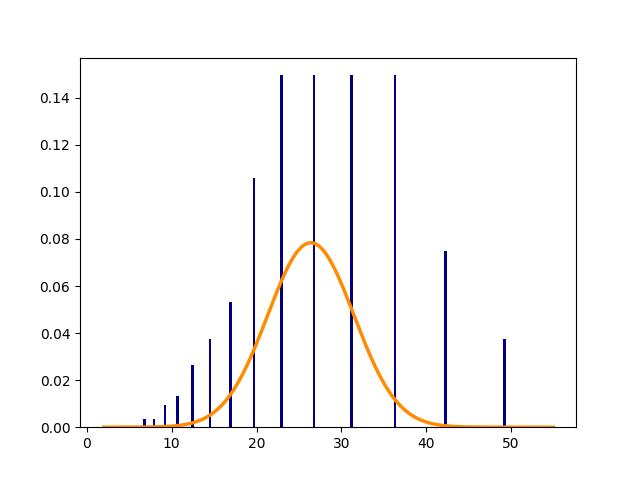
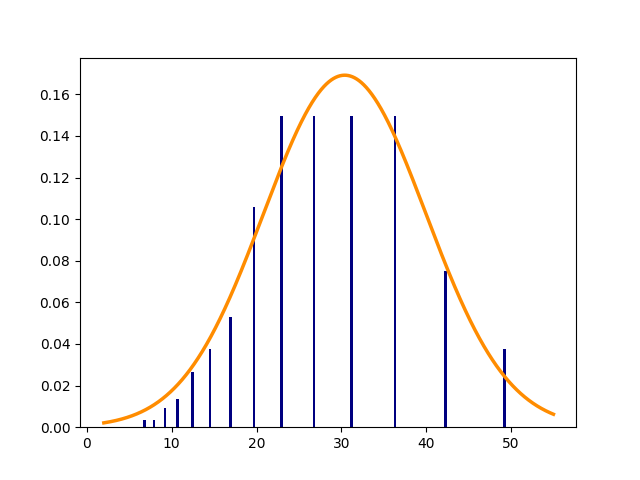
ORCA finished

diff --git a/sources/ORCA/plot.py b/sources/ORCA/plot.py
@@ -1,6 +1,7 @@
 import matplotlib.pyplot as plt
 import numpy as np
 from matplotlib.colors import LogNorm
+from matplotlib.ticker import LogFormatterMathtext
 from scipy.optimize import curve_fit
 
 import digitalizer as dgt
@@ -26,10 +27,13 @@ def plot_mig_hist(binnum):
     data_entries = D_tracks[binnum]
     # data_entries = D_cascades[binnum]
 
+    if binnum == 11: # only manual hard code part
+        data_entries[14] = 0.1
+
     print(data_entries)
 
     bins_centers = np.array([0.5 * (x_bins[i] + x_bins[i+1]) for i in range(len(x_bins)-1)])
-    popt, pcov = curve_fit(gaussian, xdata=bins_centers, ydata=data_entries, p0=[binnum, 20])
+    popt, pcov = curve_fit(gaussian, xdata=bins_centers, ydata=data_entries, p0=[binnum, 10, 1])
 
     # # Generate enough x values to make the curves look smooth.
     xspace = np.linspace(2, 55, 100000)
@@ -79,59 +83,32 @@ def plot_zenith_errors():
 
 # plot_zenith_errors()
 
-# This function has some problems: heatmap definition is understood wrong I believe
-# def plot_energy_reco(gaus, bins):
-#     def find_reco_energy_prob(gaus, bins, true_energy, reco_energy):
-#         # set bounds on IC energy
-#         if true_energy > 53 or true_energy < 1.85:
-#             return -1
-#         # find which E_true_ORCA bin this E_true belongs to
-#         for i in range(len(bins) - 1):
-#             if true_energy <= bins[i + 1]:
-#                 bin_num = i
-#                 print("in find reco, i is ", i)
-#                 break
 
-#         # now generate a random reco number from t
-#         [sigma, mu] = gaus[bin_num]
-#         print("and now sigma and mu are ", sigma, mu)
-#         E_reco = util.gaussian(reco_energy, mu, sigma)
-#         print("and the reco is ", E_reco)
-
-#         # return this fake ORCA MC energy
-#         return E_reco
-#     x = np.logspace(np.log10(2), np.log10(50), 22)
-#     y = np.logspace(np.log10(2), np.log10(50), 22)
-#     print("x and y are ", x, y)
-#     mesh = np.zeros((22, 22), float)
-#     for i in range(22):
-#         for j in range(22):
-#             true_energy = x[i]
-#             print("currently i and j, and x and y are ", i, j, x[i], y[j])
-#             res = find_reco_energy_prob(gaus, bins, x[i], y[j])
-#             mesh[i][j] = res
-
-#     fig, ax = plt.subplots()
-#     ax.imshow(mesh)
-#     # plt.xscale('log')
-#     # plt.yscale('log')
-#     plt.xlim(0.1, 50)
-#     plt.ylim(0.1, 50)
+# def plot_energy_reco():
+#     # plt.scatter(anl.res_true, anl.res_reco)
+#     heatmap, xedges, yedges = np.histogram2d(anl.res_true, anl.res_reco, bins=(x_bins, x_bins))
+#     extent = [xedges[0], xedges[-1], yedges[0], yedges[-1]]
+#     plt.xlim(2, 53)
+#     plt.ylim(2, 53)
+#     plt.clf()
+#     plt.imshow(heatmap.T, extent=extent, origin='lower', norm = LogNorm())
+#     # plt.xscale("log")
+#     # plt.yscale("log")
+#     plt.savefig("ICMC_with_ORCA_Reco")
 #     plt.show()
 
-# plot_energy_reco(anl.tracks.gaussians, x_bins)
-
 def plot_energy_reco():
-    # plt.scatter(anl.res_true, anl.res_reco)
-    heatmap, xedges, yedges = np.histogram2d(anl.res_true, anl.res_reco, bins=(x_bins, x_bins))
-    extent = [xedges[0], xedges[-1], yedges[0], yedges[-1]]
+    x = np.logspace(np.log10(1.85), np.log10(53), 23)
+    y = np.logspace(np.log10(1.85), np.log10(53), 23)
+    X, Y = np.meshgrid(x, y)
+    Z, xedges, yedges = np.histogram2d(anl.res_true, anl.res_reco, bins=(x, y))
+    im = plt.pcolor(X, Y, Z.T, cmap = "gray_r", norm = LogNorm())
     plt.xlim(2, 53)
     plt.ylim(2, 53)
-    plt.clf()
-    plt.imshow(heatmap.T, extent=extent, origin='lower', norm = LogNorm())
-    # plt.xscale("log")
-    # plt.yscale("log")
+    plt.colorbar(im, orientation = "vertical", format = LogFormatterMathtext())
+    plt.xscale("log")
+    plt.yscale("log")
+    # plt.show()
     plt.savefig("ICMC_with_ORCA_Reco")
-    plt.show()
 
 plot_energy_reco()

diff --git a/sources/ORCA/util.py b/sources/ORCA/util.py
@@ -2,13 +2,13 @@ import numpy as np
 import matplotlib.pyplot as plt
 from scipy.optimize import curve_fit
 
-def gaussian(x, mu, sigma):
-    return (1 / (sigma * np.sqrt(2 * np.pi)) * np.exp(-1.0 * (x - mu)**2 / (2 * sigma**2)))
+def gaussian(x, mu, sigma, A):
+    return (A / (sigma * np.sqrt(2 * np.pi)) * np.exp(-1.0 * (x - mu)**2 / (2 * sigma**2)))
 
 def gaus_fit(data_entries, bins, current_binnum):
 	bins_centers = np.array([0.5 * (bins[i] + bins[i+1]) for i in range(len(bins)-1)])
-	popt, pcov = curve_fit(gaussian, xdata=bins_centers, ydata=data_entries, p0=[current_binnum, 5])
-	return popt[0], popt[1]
+	popt, pcov = curve_fit(gaussian, xdata=bins_centers, ydata=data_entries, p0=[current_binnum, 5, 1])
+	return popt[0], popt[1], popt[2]
 
 def get_zenith_error():
 

diff --git a/sources/ORCA/digitalizer.py b/sources/ORCA/digitalizer.py
@@ -50,8 +50,9 @@ class Digitalizer:
 		self.extracted = ext_data
 
 	def fit(self):
-		self.gaussians = np.ndarray((self.extracted.shape[0],2), float)
+		self.gaussians = np.ndarray((self.extracted.shape[0],3), float)
 		for i in range(self.extracted.shape[0]):
-			sigma, mu = gaus_fit(self.extracted[i], x_bins, i)
+			sigma, mu, A = gaus_fit(self.extracted[i], x_bins, i)
 			self.gaussians[i][0] = sigma
 			self.gaussians[i][1] = mu
+			self.gaussians[i][2] = A

diff --git a/sources/ORCA/MCGenerator.py b/sources/ORCA/MCGenerator.py
@@ -28,8 +28,8 @@ class Generator:
 				return -1
 
 			# now generate a random reco number from t
-			sigma, mu = 0, 0
-			[sigma, mu] = gaus[bin_num]
+			sigma, mu, A = 0, 0, 1
+			[sigma, mu, A] = gaus[bin_num]
 			random_E_reco = np.random.normal(sigma, mu)
 
 			# return this fake ORCA MC energy

diff --git a/sources/ORCA/analyze.py b/sources/ORCA/analyze.py
@@ -16,6 +16,7 @@ tracks.digitalize(22, 22)
 cascades.digitalize(22, 22)
 
 D_tracks = tracks.extracted
+D_tracks[11][14] = 0.1 # only manual hardcode part
 D_cascades = cascades.extracted
 
 tracks.fit()
